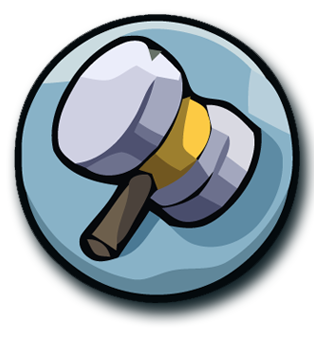
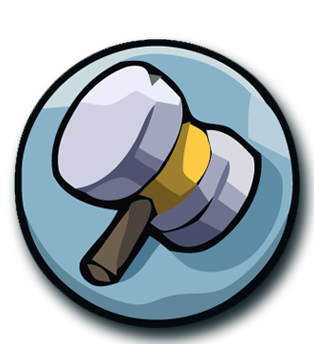
Add button hammer

diff --git a/TempleRuins/Classes/GamePlay.cpp b/TempleRuins/Classes/GamePlay.cpp
@@ -7,7 +7,7 @@ Scene *GamePlay::createGame()
 	// 'scene' is an autorelease object
 	auto scene = Scene::createWithPhysics();
 
-	scene->getPhysicsWorld()->setDebugDrawMask(PhysicsWorld::DEBUGDRAW_ALL);
+	//scene->getPhysicsWorld()->setDebugDrawMask(PhysicsWorld::DEBUGDRAW_ALL);
 
 	// 'layer' is an autorelease object
 	auto layer = GamePlay::create();
@@ -53,7 +53,6 @@ void GamePlay::CreateMap()
 
 		_background = _tileMap->layerNamed("Background");
 		_wall = _tileMap->layerNamed("MapLv1");
-		//layer_1->addChild(_tileMap);
 		this->addChild(_tileMap);
 }
 
@@ -80,12 +79,14 @@ void GamePlay::InitialObject()
 	// initial spider
 	this->spider = new Spider(this);
 	this->setViewPointCenter(this->spider->GetSprite()->getPosition());
+
+	// initial rock
+	this->rock = new Rock(this);
 }
 
 void GamePlay::AddDispatcher()
 {
 	// key board
-
 	auto keylistener = EventListenerKeyboard::create();
 	keylistener->onKeyPressed = CC_CALLBACK_2(GamePlay::OnKeyPressed, this);
 	keylistener->onKeyReleased = CC_CALLBACK_2(GamePlay::OnKeyReleased, this);
@@ -131,6 +132,14 @@ void GamePlay::InitialButton()
 	mMoveRightControllerPressed->setPosition(mMoveRightController->getPosition());
 	mMoveRightControllerPressed->setVisible(false);
 	addChild(mMoveRightControllerPressed);	
+	//Button fight
+
+	mBump = ui::Button::create("Button/hammer_normal.png","Button/hammer_pressed.png");
+	mBump->setScale(0.3);
+	mBump->setPosition(Vec2(Director::getInstance()->getVisibleSize().width - 150, 100));
+	mBump->addTouchEventListener(CC_CALLBACK_2(GamePlay::Fight, this));
+	addChild(mBump);
+
 
 }
 
@@ -236,6 +245,19 @@ void GamePlay::CreateBloodBar()
 		this->addChild(bloodBar_1);
 		this->addChild(bloodBar_2);
 	}
+
+void GamePlay::Fight(cocos2d::Ref * sender, cocos2d::ui::Widget::TouchEventType type)
+{
+	switch (type)
+	{
+	case ui::Widget::TouchEventType::BEGAN:
+		fight = true;
+		break;
+	case ui::Widget::TouchEventType::ENDED:
+		fight = false;
+		break;
+}
+}
 
 void GamePlay::OnKeyPressed(EventKeyboard::KeyCode keycode, Event * event)
 	{
@@ -426,7 +448,7 @@ void GamePlay::setViewPointCenter(CCPoint position)
 
 			spider->GetSprite()->setPosition(spider->GetSprite()->getPosition() + mapMoveDistance);
 
-			//rock->GetSprite()->setPosition(rock->GetSprite()->getPosition() + mapMoveDistance);
+			rock->GetSprite()->setPosition(rock->GetSprite()->getPosition() + mapMoveDistance);
 		}
 
 		/*_tileMap->setPosition(_tileMap->getPosition() + viewPoint);
@@ -464,7 +486,6 @@ void GamePlay::onTouchEnded(Touch* touch, Event  *event)
 	mCurrentTouchState = ui::Widget::TouchEventType::ENDED;
 	mCurrentTouchPoint = Point(-1, -1);
 }
-
 
 void GamePlay::UpdateController()
 {
@@ -531,6 +552,7 @@ void GamePlay::UpdateController()
 	}
 
 }
+
 void GamePlay::EnablePressedControl(bool isLeft, bool pressed) 
 {
 	if (isLeft) {

diff --git a/TempleRuins/Classes/GamePlay.h b/TempleRuins/Classes/GamePlay.h
@@ -33,6 +33,7 @@ private:
 
 	//
 	cocos2d::EventKeyboard::KeyCode mCurrentKey;
+	cocos2d::ui::Button* mBump;
 
 	cocos2d::ui::Widget::TouchEventType mCurrentTouchState;
 
@@ -54,6 +55,7 @@ public:
 	bool CheckFight();
 	bool CheckPush();
 	void CreateBloodBar();
+	void Fight(cocos2d::Ref* sender, cocos2d::ui::Widget::TouchEventType type);
 
 	void OnKeyPressed(EventKeyboard::KeyCode keycode, Event *event);
 	void OnKeyReleased(EventKeyboard::KeyCode keycode, Event *event);

diff --git a/TempleRuins/Classes/MainCharactor.cpp b/TempleRuins/Classes/MainCharactor.cpp
@@ -227,7 +227,7 @@ void MainCharactor::MoveLeft()
 {
 	float posX = this->GetSprite()->getPosition().x;
 	float posY = this->GetSprite()->getPosition().y;
-	this->GetSprite()->setPosition(posX - SPEED_RUN, posY);
+	//this->GetSprite()->setPosition(posX - SPEED_RUN, posY);
 }
 
 void MainCharactor::MoveRight()
